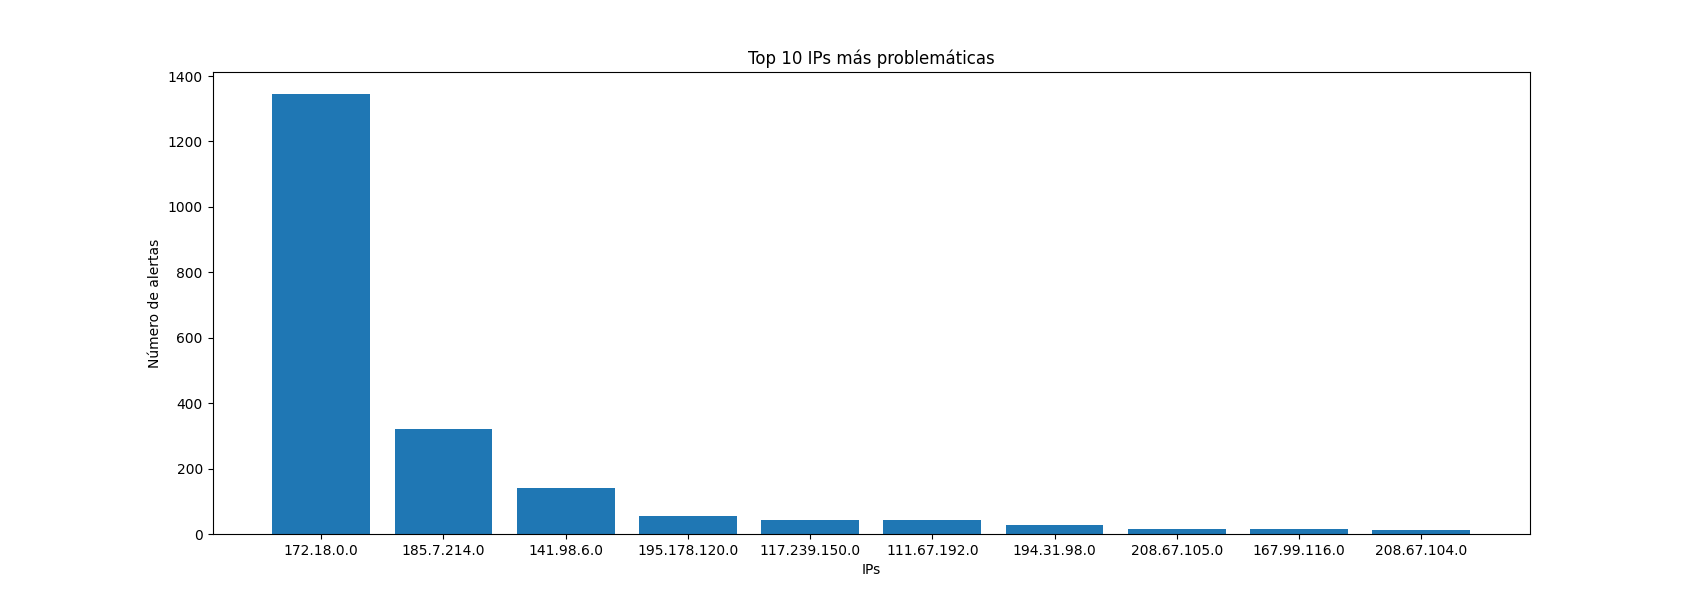
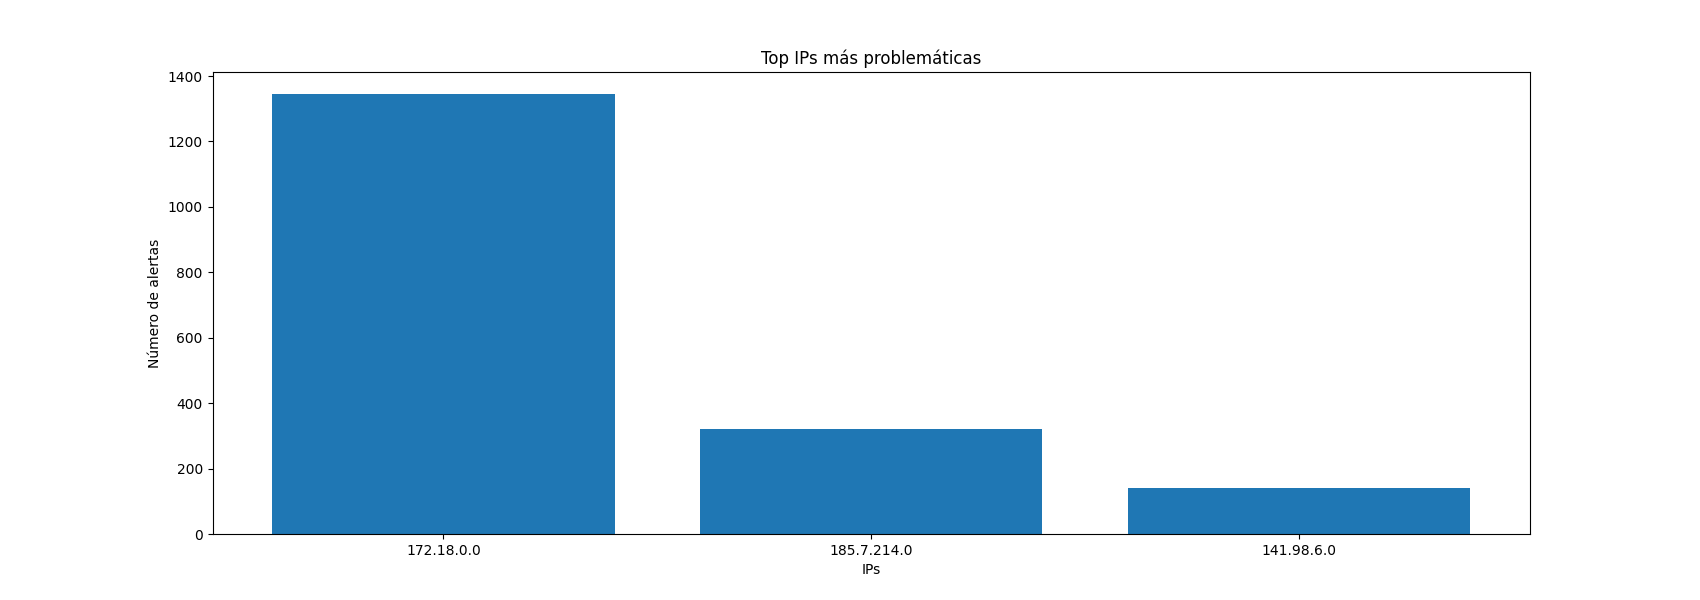
he metido lo de seleccionar n elementos

Changed region(s): [[0.1559, 0.15, 0.3741, 0.93], [0.3118, 0.69, 0.8729, 0.93], [0.4365, 0.09, 0.5924, 0.12]]

diff --git a/Templates/home.html b/Templates/home.html
@@ -7,9 +7,9 @@
 	<h1>Bienvenido a mi sitio web</h1>
 	<p>Por favor, seleccione una página:</p>
 	<ul>
-		<li><a href="{{ url_for('top_ips') }}">Top IPs</a></li>
-		<li><a href="{{ url_for('top_dispositivos') }}">Top Dispositivos</a></li>
-		<li><a href="{{ url_for('top_peligrosos') }}">Top Peligrosos</a></li>
+		<li><a href="{{ url_for('numeroIPsInsertar') }}">Top IPs</a></li>
+		<li><a href="{{ url_for('numeroDispositivoInsertar') }}">Top Dispositivos</a></li>
+		<li><a href="{{ url_for('numeroPeligrosoInsertar') }}">Top Peligrosos</a></li>
 		<li><a href="{{ url_for('ultimas_vulnerabilidades') }}">Ultimas vulnerabilidades</a></li>
 		<li><a href="{{ url_for('cmi') }}">Cuadro de mandos CMI</a></li>
 		<li><a href="{{ url_for('login') }}">Cerrar sesion</a></li>

diff --git a/Templates/top_dispositivos.html b/Templates/top_dispositivos.html
@@ -1,11 +1,11 @@
 <!DOCTYPE html>
 <html>
 <head>
-	<title>Top 5 dispositivos más vulnerables</title>
+    <title>Top dispositivos más vulnerables</title>
 </head>
 <body>
-	<h1>Top 5 dispositivos más vulnerables</h1>
-	<p>A continuación se muestra un gráfico de barras con los 5 dispositivos más vulnerables:</p>
-	<img src="/static/top_dispositivos.png" alt="Top 5 dispositivos más vulnerables">
+    <h1>Top dispositivos más vulnerables</h1>
+    <p>A continuación se muestra un gráfico de barras con los dispositivos más vulnerables:</p>
+    <img src="/static/top_dispositivos.png" alt="Top dispositivos más vulnerables">
 </body>
 </html>

diff --git a/Templates/top_ips.html b/Templates/top_ips.html
@@ -1,12 +1,12 @@
 <!DOCTYPE html>
 <html>
 <head>
-	<title>Top 10 IPs más problemáticas</title>
+	<title>Top IPs más problemáticas</title>
 </head>
 <body>
-	<h1>Top 10 IPs más problemáticas</h1>
-	<p>A continuación se muestra un gráfico de barras con las 10 IPs más problemáticas:</p>
-	<img src="/static/top_ips.png" alt="Top 10 IPs más problemáticas">
+	<h1>Top  IPs más problemáticas</h1>
+	<p>A continuación se muestra un gráfico de barras con las IPs más problemáticas:</p>
+	<img src="/static/top_ips.png" alt="Top IPs más problemáticas">
 	<ul>
 	{% for ip in ips %}
 		<li>{{ ip[0] }} - {{ ip[1] }} alertas</li>

diff --git a/Templates/top_peligrosos.html b/Templates/top_peligrosos.html
@@ -1,11 +1,10 @@
-<!DOCTYPE html>
 <html>
 <head>
-	<title>Dispositivos más peligrosos</title>
+    <title>Inicio</title>
 </head>
 <body>
-	<h1>Dispositivos más peligrosos</h1>
-	<p>A continuación se muestra un gráfico de barras con los dispositivos más peligrosos:</p>
-	<img src="/static/top_peligrosos.png" alt="Dispositivos más peligrosos">
+    <h1>Top PELIGROSOS más problemáticas</h1>
+	<p>A continuación se muestra un gráfico de barras con las PELIGROSOS más problemáticas:</p>
+	<img src="/static/top_peligrosos.png" alt="Top PELIGROSOS más problemáticas">
 </body>
 </html>

diff --git a/Templates/numeroDispositivo.html b/Templates/numeroDispositivo.html
@@ -1,0 +1,14 @@
+<!DOCTYPE html>
+<html>
+<head>
+    <title>INSERTE EL NUMERO</title>
+</head>
+<body>
+    <h1>INSERTE EL NUMERO PARA MOSTRAR LA GRAFICA</h1>
+    <form action="/top_dispositivos/" method="post">
+        <label for="cantidad">Numero que quieres mostrar...:</label>
+        <input type="number" id="cantidad" name="cantidad" min="1" required><br><br>
+        <input type="submit" value="Mostrar">
+    </form>
+</body>
+</html>

diff --git a/Templates/numeroPeligroso.html b/Templates/numeroPeligroso.html
@@ -1,0 +1,14 @@
+<!DOCTYPE html>
+<html>
+<head>
+    <title>INSERTE EL NUMERO</title>
+</head>
+<body>
+    <h1>INSERTE EL NUMERO PARA MOSTRAR LA GRAFICA</h1>
+    <form action="/top_peligrosos/" method="post">
+        <label for="cantidad">Numero que quieres mostrar...:</label>
+        <input type="number" id="cantidad" name="cantidad" min="1" required><br><br>
+        <input type="submit" value="Mostrar">
+    </form>
+</body>
+</html>

diff --git a/Templates/numeroIPs.html b/Templates/numeroIPs.html
@@ -1,0 +1,15 @@
+<!DOCTYPE html>
+<html>
+<head>
+    <title>INSERTE EL NUMERO</title>
+</head>
+<body>
+    <h1>INSERTE EL NUMERO PARA MOSTRAR LA GRAFICA</h1>
+    <form action="/top_ips" method="post">
+        <label for="cantidad">Numero que quieres mostrar...:</label>
+        <input type="number" id="cantidad" name="cantidad" min="1" required><br><br>
+        <input type="submit" value="Mostrar">
+    </form>
+</body>
+</html>
+

diff --git a/main.py b/main.py
@@ -1,4 +1,4 @@
-from flask import Flask, render_template, request, url_for, redirect
+from flask import Flask, render_template, request, url_for, redirect, flash
 import pandas as pd
 import sqlite3
 import json
@@ -176,7 +176,7 @@ plt.savefig('static/regresion_lineal.png')
 DECISION TREE
 ##############################################################
 '''
-
+'''
 with open('devices_IA_clases.json') as f:
     dispositivos_train = json.load(f)
 
@@ -206,6 +206,8 @@ graph = graphviz.Source(dot_data)
 graph.format = 'png'
 graph.render('static/tree')
 
+'''
+
 
 
 
@@ -213,6 +215,7 @@ graph.render('static/tree')
 ##############################################################
 RANDOM FOREST
 ##############################################################
+'''
 '''
 
 # Convert data to pandas DataFrame
@@ -251,9 +254,10 @@ graph.format = 'png'
 graph.render('static/forest')
 
 
+'''
+
+
 app = Flask(__name__)
-
-
 '''
 ##############################################################
 PRIMERA PAGINA Y HOME (HTML CON ENLACES)
@@ -314,86 +318,104 @@ def signup():
 ENLACES QUE REDIRECCIONAN A LAS GRAFICAS Y AL CUADRO DE MANDOS
 ##############################################################
 '''
+
+@app.route('/numeroIPsInsertar/', methods=["GET", "POST"])
+def numeroIPsInsertar():
+    return render_template("numeroIPs.html")
 @app.route('/top_ips/', methods=["GET", "POST"])
 def top_ips():
-    con = sqlite3.connect("p1.db")
-    cursor = con.cursor()
-    cursor.execute(
-        "SELECT origen, COUNT(*) AS total_alertas FROM alerta WHERE prioridad = 1 GROUP BY origen ORDER BY total_alertas DESC LIMIT 10")
-    ips = cursor.fetchall()
-    con.close()
+    if request.method == 'POST':
+        cantidad = int(request.form.get('cantidad'))
+        if cantidad <= 0:
+            flash('Ingrese un número mayor a 0.')
+            return redirect('/top_ips/')
+        con = sqlite3.connect("p1.db")
+        cursor = con.cursor()
+        cursor.execute(
+            f"SELECT origen, COUNT(*) AS total_alertas FROM alerta WHERE prioridad = 1 GROUP BY origen ORDER BY total_alertas DESC LIMIT {cantidad}")
+        ips = cursor.fetchall()
+        con.close()
+        x_values = [i[0] for i in ips]
+        y_values = [i[1] for i in ips]
+        plt.figure(figsize=(17, 6))
+        plt.bar(x_values, y_values)
+        plt.title("Top IPs más problemáticas")
+        plt.xlabel("IPs")
+        plt.ylabel("Número de alertas")
+        plt.savefig("static/top_ips.png")
+        return render_template('top_ips.html', ips=ips)
+    return render_template('top_ips.html')
 
-    # Convertir la lista de tuplas en dos listas separadas para usarlas en el gráfico
-    x_values = [i[0] for i in ips]
-    y_values = [i[1] for i in ips]
 
-    # Crear el gráfico de barras
-    plt.figure(figsize=(17, 6))
-    plt.bar(x_values, y_values)
-
-    # Agregar etiquetas al gráfico
-    plt.title("Top 10 IPs más problemáticas")
-    plt.xlabel("IPs")
-    plt.ylabel("Número de alertas")
-
-    # Guardar el gráfico en un archivo
-    plt.savefig("static/top_ips.png")
-
-    return render_template('top_ips.html', ips=ips)
-
+@app.route('/numeroDispositivoInsertar/', methods=["GET", "POST"])
+def numeroDispositivoInsertar():
+    return render_template("numeroDispositivo.html")
 @app.route('/top_dispositivos/', methods=["GET", "POST"])
 def top_dispositivos():
-    con = sqlite3.connect("p1.db")
-    cursor = con.cursor()
-    cursor.execute(
-        "SELECT dispositivo, servicios_inseguros + vulnerabilidades_detectadas AS servicios_vulnerables FROM analisis GROUP BY dispositivo ORDER BY servicios_vulnerables DESC LIMIT 5")
-    dispositivos = cursor.fetchall()
-    con.close()
+    if request.method == 'POST':
+        cantidad = int(request.form.get('cantidad'))
+        if cantidad <= 0:
+            flash('Ingrese un número mayor a 0.')
+            return redirect('/top_dispositivos/')
+        con = sqlite3.connect("p1.db")
+        cursor = con.cursor()
+        cursor.execute(
+            "SELECT dispositivo, servicios_inseguros + vulnerabilidades_detectadas AS servicios_vulnerables FROM analisis GROUP BY dispositivo ORDER BY servicios_vulnerables DESC LIMIT ?", (cantidad,))
+        dispositivos = cursor.fetchall()
+        con.close()
+        # Convertir la lista de tuplas en dos listas separadas para usarlas en el gráfico
+        x_values = [i[0] for i in dispositivos]
+        y_values = [i[1] for i in dispositivos]
+        # Crear el gráfico de barras
+        plt.figure(figsize=(9, 6))
+        plt.bar(x_values, y_values)
+        # Agregar etiquetas al gráfico
+        plt.title("Top {} dispositivos más vulnerables".format(cantidad))
+        plt.xlabel("Dispositivos")
+        plt.ylabel("Número de vulnerabilidades")
+        # Guardar el gráfico en un archivo
+        plt.savefig("static/top_dispositivos.png")
+        return render_template('top_dispositivos.html')
+    else:
+        return render_template('numeroDispositivo.html')
 
-    # Convertir la lista de tuplas en dos listas separadas para usarlas en el gráfico
-    x_values = [i[0] for i in dispositivos]
-    y_values = [i[1] for i in dispositivos]
-
-    # Crear el gráfico de barras
-    plt.figure(figsize=(9, 6))
-    plt.bar(x_values, y_values)
-
-    # Agregar etiquetas al gráfico
-    plt.title("Top 5 dispositivos más vulnerables")
-    plt.xlabel("Dispositivos")
-    plt.ylabel("Número de vulnerabilidades")
-
-    # Guardar el gráfico en un archivo
-    plt.savefig("static/top_dispositivos.png")
-
-    return render_template('top_dispositivos.html', dispositivos=dispositivos)
-
+@app.route('/numeroPeligrosoInsertar/', methods=["GET", "POST"])
+def numeroPeligrosoInsertar():
+    return render_template("numeroPeligroso.html")
 @app.route('/top_peligrosos/', methods=["GET", "POST"])
 def top_peligrosos():
-    con = sqlite3.connect("p1.db")
-    cursor = con.cursor()
-    cursor.execute(
-        "SELECT dispositivo, servicios_inseguros FROM analisis WHERE servicios_inseguros > (servicios / 3) LIMIT 7")
-    dispositivos = cursor.fetchall()
-    con.close()
+    if request.method == 'POST':
+        cantidad = int(request.form.get('cantidad'))
+        if cantidad <= 0:
+            flash('Ingrese un número mayor a 0.')
+            return redirect('/top_peligrosos/')
+        con = sqlite3.connect("p1.db")
+        cursor = con.cursor()
+        cursor.execute(
+            "SELECT dispositivo, servicios_inseguros FROM analisis WHERE servicios_inseguros > (servicios / 3) LIMIT ?", (cantidad,))
+        dispositivos = cursor.fetchall()
+        con.close()
 
-    # Convertir la lista de tuplas en dos listas separadas para usarlas en el gráfico
-    x_values = [i[0] for i in dispositivos]
-    y_values = [i[1] for i in dispositivos]
+        # Convertir la lista de tuplas en dos listas separadas para usarlas en el gráfico
+        x_values = [i[0] for i in dispositivos]
+        y_values = [i[1] for i in dispositivos]
 
-    # Crear el gráfico de barras
-    plt.figure(figsize=(9, 6))
-    plt.bar(x_values, y_values)
+        # Crear el gráfico de barras
+        plt.figure(figsize=(9, 6))
+        plt.bar(x_values, y_values)
 
-    # Agregar etiquetas al gráfico
-    plt.title("Dispositivos más peligrosos")
-    plt.xlabel("Dispositivos")
-    plt.ylabel("Número de servicios inseguros")
+        # Agregar etiquetas al gráfico
+        plt.title("Dispositivos más peligrosos")
+        plt.xlabel("Dispositivos")
+        plt.ylabel("Número de servicios inseguros")
 
-    # Guardar el gráfico en un archivo
-    plt.savefig("static/top_peligrosos.png")
+        # Guardar el gráfico en un archivo
+        plt.savefig("static/top_peligrosos.png")
 
-    return render_template('top_peligrosos.html', dispositivos=dispositivos)
+        return render_template('top_peligrosos.html')
+    else:
+        return render_template('numeroPeligroso.html')
+
 
 
 @app.route('/ultimas_vulnerabilidades/', methods=["GET", "POST"])
